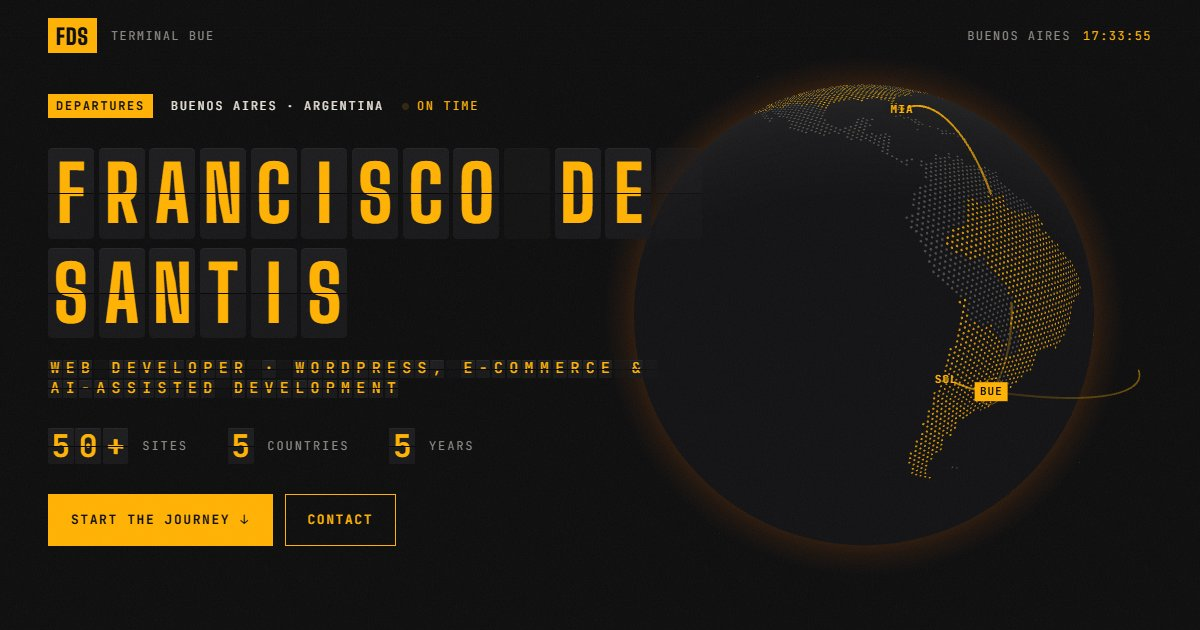
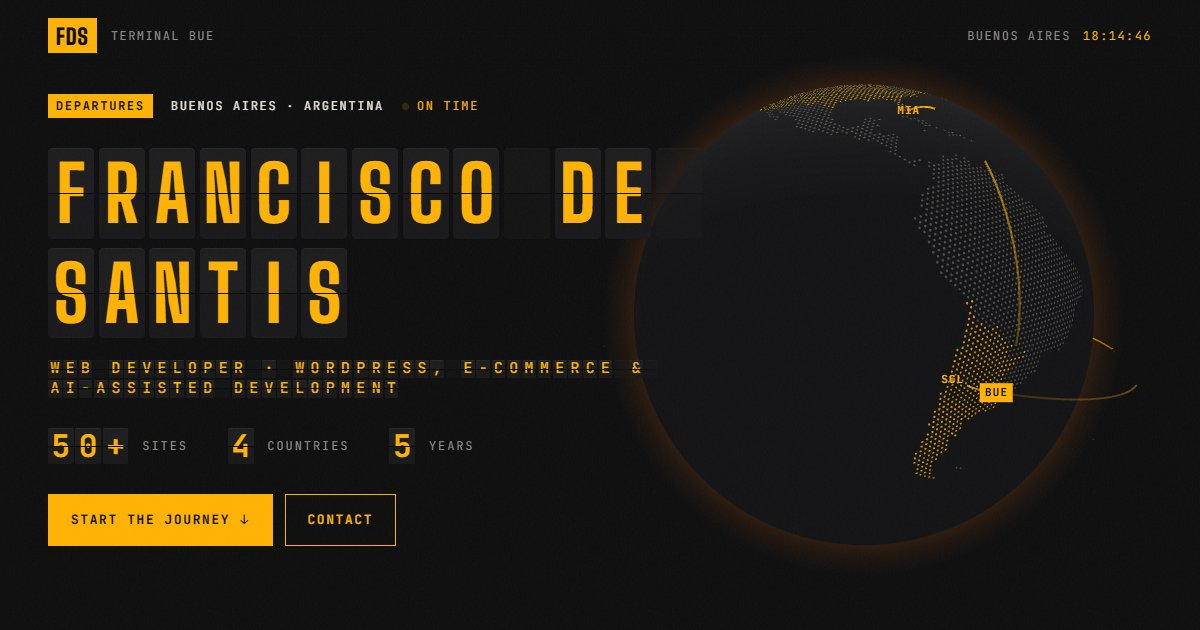
Add phone, move All flights to the top bar, count countries from data
- Phone / WhatsApp on the contact pass and case page footers
- All flights button lives in the top bar instead of floating
- Countries counter and globe highlight come from the stops list (4)

diff --git a/index.html b/index.html
@@ -6,14 +6,14 @@
     <title>Francisco De Santis — Web Developer · WordPress, E-commerce & AI</title>
     <meta
       name="description"
-      content="Web developer in Buenos Aires with 5 years of experience and 50+ sites shipped for clients in Argentina, Brazil, Chile, Dubai and the US. WordPress, Shopify, WooCommerce, custom TypeScript and AI-assisted development."
+      content="Web developer in Buenos Aires with 5 years of experience and 50+ sites shipped for clients in Argentina, Chile, the US and Dubai. WordPress, Shopify, WooCommerce, custom TypeScript and AI-assisted development."
     />
     <meta name="theme-color" content="#0b0b0c" />
     <link rel="icon" href="/favicon.svg" type="image/svg+xml" />
 
     <meta property="og:type" content="website" />
     <meta property="og:title" content="Francisco De Santis — From Buenos Aires to the world" />
-    <meta property="og:description" content="Web developer · WordPress, e-commerce & AI-assisted development. 50+ sites · 5 countries · 5 years." />
+    <meta property="og:description" content="Web developer · WordPress, e-commerce & AI-assisted development. 50+ sites · 4 countries · 5 years." />
     <meta property="og:image" content="%VITE_SITE_URL%/og.jpg" />
     <meta property="og:url" content="%VITE_SITE_URL%/" />
     <link rel="canonical" href="%VITE_SITE_URL%/" />
@@ -39,7 +39,8 @@
         <span class="topbar__terminal">Terminal BUE</span>
       </a>
       <div class="topbar__meta">
-        <span>Buenos Aires</span>
+        <button class="all-flights" type="button" aria-haspopup="dialog" aria-controls="departures" data-cursor="Board">All flights</button>
+        <span class="topbar__city">Buenos Aires</span>
         <span class="topbar__clock" data-clock="America/Argentina/Buenos_Aires">--:--:--</span>
       </div>
     </header>
@@ -63,7 +64,7 @@
 
           <ul class="hero__stats" aria-label="At a glance">
             <li><span class="flap-line flap-line--stat" data-flap="50+">50+</span><span class="hero__stat-label">sites</span></li>
-            <li><span class="flap-line flap-line--stat" data-flap="5">5</span><span class="hero__stat-label">countries</span></li>
+            <li><span class="flap-line flap-line--stat" data-flap="4" data-countries>4</span><span class="hero__stat-label">countries</span></li>
             <li><span class="flap-line flap-line--stat" data-flap="5">5</span><span class="hero__stat-label">years</span></li>
           </ul>
 
@@ -159,6 +160,7 @@
             </div>
             <dl class="pass__fields pass__fields--contact">
               <div><dt>Email</dt><dd><a href="mailto:franciscodesantis96@gmail.com">franciscodesantis96@gmail.com</a></dd></div>
+              <div><dt>Phone · WhatsApp</dt><dd><a href="tel:+541135192444">+54 11 3519-2444</a></dd></div>
               <div><dt>LinkedIn</dt><dd><a href="https://www.linkedin.com/in/francisco-de-santis" target="_blank" rel="noopener">/in/francisco-de-santis</a></dd></div>
             </dl>
             <div class="pass__actions">
@@ -184,9 +186,6 @@
       </section>
     </main>
 
-    <button class="all-flights" type="button" aria-haspopup="dialog" aria-controls="departures" data-cursor="Board">
-      <span class="all-flights__dot"></span>All flights
-    </button>
     <dialog class="departures" id="departures" aria-label="All flights"></dialog>
 
     <script type="module" src="/src/main.ts"></script>

diff --git a/src/data/projects.ts b/src/data/projects.ts
@@ -19,6 +19,8 @@ export interface Stop {
   lat: number
   lng: number
   timeZone: string
+  /** ISO 3166 numeric code, so the globe can highlight the country */
+  iso: string
 }
 
 export interface Project {
@@ -49,10 +51,10 @@ export const HOME = {
 
 /** Journey order: Argentina → Chile → USA → Dubai → back to Buenos Aires */
 export const stops: Stop[] = [
-  { id: 'AR', country: 'Argentina', stamp: 'Argentina', city: 'Buenos Aires', code: 'BUE', lat: -34.6037, lng: -58.3816, timeZone: 'America/Argentina/Buenos_Aires' },
-  { id: 'CL', country: 'Chile', stamp: 'Chile', city: 'Santiago', code: 'SCL', lat: -33.4489, lng: -70.6693, timeZone: 'America/Santiago' },
-  { id: 'US', country: 'United States', stamp: 'USA', city: 'Miami', code: 'MIA', lat: 25.7617, lng: -80.1918, timeZone: 'America/New_York' },
-  { id: 'AE', country: 'United Arab Emirates', stamp: 'UAE', city: 'Dubai', code: 'DXB', lat: 25.2048, lng: 55.2708, timeZone: 'Asia/Dubai' },
+  { id: 'AR', country: 'Argentina', stamp: 'Argentina', city: 'Buenos Aires', code: 'BUE', lat: -34.6037, lng: -58.3816, timeZone: 'America/Argentina/Buenos_Aires', iso: '032' },
+  { id: 'CL', country: 'Chile', stamp: 'Chile', city: 'Santiago', code: 'SCL', lat: -33.4489, lng: -70.6693, timeZone: 'America/Santiago', iso: '152' },
+  { id: 'US', country: 'United States', stamp: 'USA', city: 'Miami', code: 'MIA', lat: 25.7617, lng: -80.1918, timeZone: 'America/New_York', iso: '840' },
+  { id: 'AE', country: 'United Arab Emirates', stamp: 'UAE', city: 'Dubai', code: 'DXB', lat: 25.2048, lng: 55.2708, timeZone: 'Asia/Dubai', iso: '784' },
 ]
 
 /** Flights between stops, in scroll order. The last one flies home. */
@@ -73,6 +75,8 @@ export const legs: Leg[] = [
 export const CONTACT = {
   email: 'franciscodesantis96@gmail.com',
   linkedin: 'https://www.linkedin.com/in/francisco-de-santis',
+  phone: '+54 11 3519-2444',
+  phoneHref: 'tel:+541135192444',
   cv: '/Francisco-De-Santis-CV.pdf',
 } as const
 

diff --git a/src/styles/sections.css b/src/styles/sections.css
@@ -141,7 +141,7 @@
   font-size: clamp(36px, 4vw, 60px);
 }
 .pass__fields--contact {
-  grid-template-columns: repeat(2, auto);
+  grid-template-columns: repeat(3, auto);
 }
 .pass__fields--contact dd {
   text-transform: none;
@@ -169,34 +169,19 @@
 
 /* ── All flights button + departures board ─────── */
 .all-flights {
-  position: fixed;
-  right: var(--gutter);
-  bottom: 22px;
-  z-index: 60;
-  display: inline-flex;
-  align-items: center;
-  gap: 10px;
-  padding: 12px 16px;
-  background: var(--board-2);
+  padding: 6px 10px;
+  background: none;
   border: 1px solid var(--amber);
   color: var(--amber);
-  font-family: var(--font-mono);
-  font-size: 12px;
+  font: inherit;
   font-weight: 700;
-  letter-spacing: 0.14em;
-  text-transform: uppercase;
+  letter-spacing: inherit;
+  text-transform: inherit;
   transition: background 0.2s, color 0.2s;
 }
 .all-flights:hover {
   background: var(--amber);
   color: var(--board);
-}
-.all-flights__dot {
-  width: 7px;
-  height: 7px;
-  border-radius: 50%;
-  background: currentColor;
-  animation: blink 1.6s steps(2) infinite;
 }
 
 .departures {
@@ -403,10 +388,8 @@
     align-items: flex-end;
     gap: 6px;
   }
-  .all-flights {
-    bottom: 14px;
-    right: 14px;
-    padding: 10px 13px;
+  .topbar__city {
+    display: none;
   }
   .contact__lead {
     font-size: 16px;

diff --git a/src/main.ts b/src/main.ts
@@ -9,7 +9,7 @@ import { ScrollTrigger } from 'gsap/ScrollTrigger'
 
 import { barcode } from './components/boardingPass'
 import { initDepartures } from './components/departures'
-import { HOME, legs, stopById } from './data/projects'
+import { HOME, legs, stopById, stops } from './data/projects'
 import { bearing, greatCircle } from './lib/geo'
 import type { GlobeController } from './lib/globe'
 import { setupPage } from './lib/setup'
@@ -33,6 +33,9 @@ if (hashTarget) {
 }
 
 /* ── Hero: split-flap board ────────────────────── */
+// One country per stop, so the counter grows as destinations are added.
+document.querySelector<HTMLElement>('[data-countries]')!.dataset.flap = String(stops.length)
+
 async function playHero() {
   const [name, role, ...stats] = Array.from(document.querySelectorAll<HTMLElement>('.hero [data-flap]'))
   const flap = (el: HTMLElement, o = {}) => splitFlap(el, el.dataset.flap!, { reduced, ...o })

diff --git a/src/case.ts b/src/case.ts
@@ -91,7 +91,7 @@ document.querySelector<HTMLElement>('#case')!.innerHTML = `
 
   <footer class="site-footer">
     <span><a href="mailto:${CONTACT.email}">${CONTACT.email}</a></span>
-    <span><a href="${CONTACT.linkedin}" target="_blank" rel="noopener">LinkedIn</a> · <a href="${CONTACT.cv}" download>CV</a></span>
+    <span><a href="${CONTACT.phoneHref}">${CONTACT.phone}</a> · <a href="${CONTACT.linkedin}" target="_blank" rel="noopener">LinkedIn</a> · <a href="${CONTACT.cv}" download>CV</a></span>
   </footer>
 </article>`
 

diff --git a/src/lib/globe.ts b/src/lib/globe.ts
@@ -2,8 +2,8 @@ import type { GlobeInstance } from 'globe.gl'
 import { HOME, legs, stopById, stops, type Leg } from '../data/projects'
 import { greatCircle, type LatLng } from './geo'
 
-/** ISO 3166 numeric codes of countries with clients — rendered brighter. */
-const WORKED = new Set(['032', '076', '152', '840', '784'])
+/** Countries on the journey are rendered brighter. */
+const WORKED = new Set(stops.map((s) => s.iso))
 const AMBER = '#ffb000'
 
 export interface GlobeController {

diff --git a/src/styles/base.css b/src/styles/base.css
@@ -125,6 +125,7 @@ a {
 }
 .topbar__meta {
   display: flex;
+  align-items: center;
   gap: 12px;
 }
 .topbar__clock {
